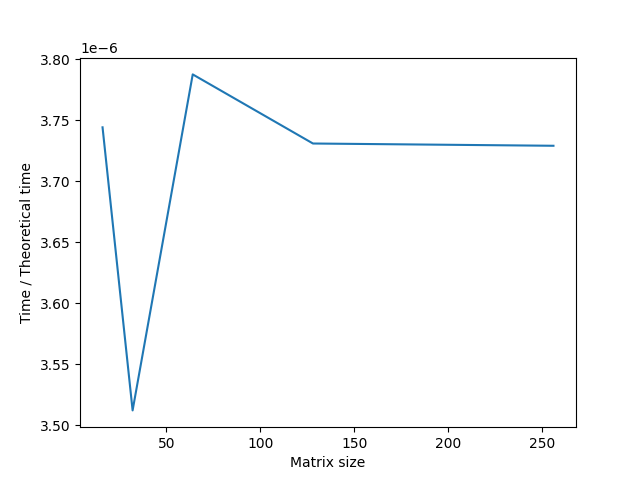
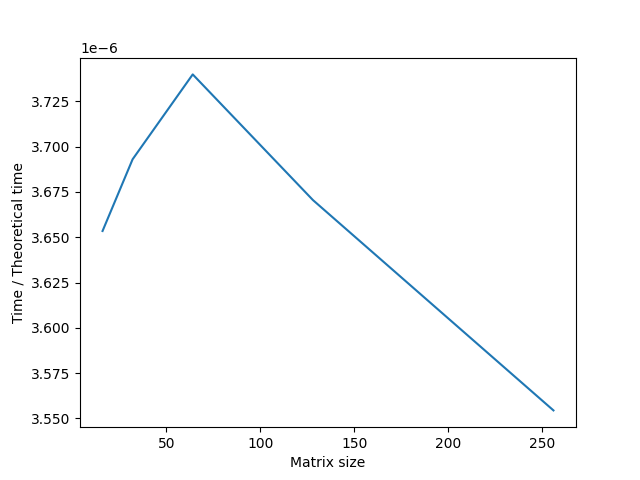
section4

diff --git a/Task1/p2.py b/Task1/p2.py
@@ -6,8 +6,6 @@ from numpy.random import rand, seed
 import matplotlib.pyplot as plt
 import os
 
-seed(1108)
-
 def divide_matrix(matrix):
     mid = matrix.shape[0] // 2
     return matrix[:mid, :mid], matrix[:mid, mid:], matrix[mid:, :mid], matrix[mid:, mid:]
